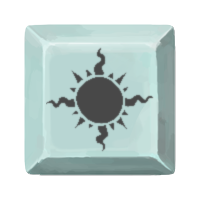
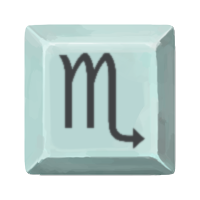
added spider's claw

Changed region(s): [[0.21, 0.24, 0.78, 0.75]]

diff --git a/src/main/java/theGamblignant/cards/SpiderClaw.java b/src/main/java/theGamblignant/cards/SpiderClaw.java
@@ -1,0 +1,68 @@
+package theGamblignant.cards;
+
+import com.megacrit.cardcrawl.actions.AbstractGameAction;
+import com.megacrit.cardcrawl.actions.common.DamageAction;
+import com.megacrit.cardcrawl.cards.DamageInfo;
+import com.megacrit.cardcrawl.characters.AbstractPlayer;
+import com.megacrit.cardcrawl.dungeons.AbstractDungeon;
+import com.megacrit.cardcrawl.monsters.AbstractMonster;
+import theGamblignant.VriskaMod;
+import theGamblignant.characters.TheGamblignant;
+
+import static theGamblignant.VriskaMod.makeCardPath;
+
+public class SpiderClaw extends AbstractVriskaCard {
+
+        // TEXT DECLARATION
+
+        public static final String ID = VriskaMod.makeID(SpiderClaw.class.getSimpleName());
+        public static final String IMG = makeCardPath("Attack.png");
+
+
+        // /TEXT DECLARATION/
+
+
+        // STAT DECLARATION
+
+        private static final CardRarity RARITY = CardRarity.COMMON;
+        private static final CardTarget TARGET = CardTarget.ENEMY;
+        private static final CardType TYPE = CardType.ATTACK;
+        public static final CardColor COLOR = TheGamblignant.Enums.COLOR_COBALT;
+
+        private static final int COST = 1;
+        private static final int UPGRADED_COST = 1;
+
+        private int TIMES = 4;
+        private final int UPGRADE_TIMES = 6;
+
+        // /STAT DECLARATION/
+
+
+        public SpiderClaw() {
+            super(ID, IMG, COST, TYPE, COLOR, RARITY, TARGET);
+            magicNumber = TIMES;
+        }
+
+
+        // Actions the card should do.
+        @Override
+        public void use(AbstractPlayer p, AbstractMonster m) {
+            int times = roll(p,magicNumber);
+            for (int i = 0; i < times; i++) {
+                AbstractDungeon.actionManager.addToBottom(
+                new DamageAction(m, new DamageInfo(p, roll(p,4), damageTypeForTurn), AbstractGameAction.AttackEffect.BLUNT_LIGHT));
+            }
+        }
+
+
+        // Upgraded stats.
+        @Override
+        public void upgrade() {
+            if (!upgraded) {
+                upgradeName();
+                TIMES = UPGRADE_TIMES;
+                upgradeBaseCost(UPGRADED_COST);
+                initializeDescription();
+            }
+        }
+}

diff --git a/src/main/java/theGamblignant/cards/CriticalStrike.java b/src/main/java/theGamblignant/cards/CriticalStrike.java
@@ -33,7 +33,7 @@ public class CriticalStrike extends AbstractVriskaCard {
     private static final CardType TYPE = CardType.ATTACK;       //
     public static final CardColor COLOR = TheGamblignant.Enums.COLOR_COBALT;
 
-    private static final int COST = 2;
+    private static final int COST = 1;
 
 
 
@@ -43,7 +43,7 @@ public class CriticalStrike extends AbstractVriskaCard {
     public CriticalStrike() {
         super(ID, IMG, COST, TYPE, COLOR, RARITY, TARGET);
 
-        this.baseMagicNumber = 20;
+        this.baseMagicNumber = 2;
         this.magicNumber = this.baseMagicNumber;
         this.tags.add(CardTags.STARTER_STRIKE);
     }
@@ -53,7 +53,7 @@ public class CriticalStrike extends AbstractVriskaCard {
     @Override
     public void use(AbstractPlayer p, AbstractMonster m) {
         AbstractDungeon.actionManager.addToBottom(
-                new DamageAction(m, new DamageInfo(p, roll(p,magicNumber), damageTypeForTurn), AbstractGameAction.AttackEffect.SLASH_HORIZONTAL));
+                new DamageAction(m, new DamageInfo(p, roll(p,8)*magicNumber, damageTypeForTurn), AbstractGameAction.AttackEffect.SLASH_HORIZONTAL));
     }
 
     // Upgraded stats.
@@ -62,7 +62,7 @@ public class CriticalStrike extends AbstractVriskaCard {
         if (!upgraded) {
             upgradeName();
             this.rawDescription = UPGRADE_DESCRIPTION;
-            this.upgradeMagicNumber(10);
+            this.upgradeMagicNumber(1);
             initializeDescription();
         }
     }

diff --git a/src/main/java/theGamblignant/cards/AbstractVriskaCard.java b/src/main/java/theGamblignant/cards/AbstractVriskaCard.java
@@ -14,14 +14,6 @@ import static com.megacrit.cardcrawl.core.CardCrawlGame.languagePack;
 
 public abstract class AbstractVriskaCard extends CustomCard {
 
-    // Custom Abstract Cards can be a bit confusing. While this is a simple base for simply adding a second magic number,
-    // if you're new to modding I suggest you skip this file until you know what unique things that aren't provided
-    // by default, that you need in your own cards.
-
-    // In this example, we use a custom Abstract Card in order to define a new magic number. From here on out, we can
-    // simply use that in our cards, so long as we put "extends AbstractDynamicCard" instead of "extends CustomCard" at the start.
-    // In simple terms, it's for things that we don't want to define again and again in every single card we make.
-
     public static final Logger logger = LogManager.getLogger(VriskaMod.class.getName()); //this is for testing purposes, you can remove this eventually
 
     public AbstractVriskaCard(final String id,
@@ -79,6 +71,7 @@ public abstract class AbstractVriskaCard extends CustomCard {
         else if (max <= min) {result = max;} //if your min is greater or equal to your max, return the max
         else {result = AbstractDungeon.cardRandomRng.random(min, max);} //do the fricken roll
 
+        logger.info("rolled a "+result);
         return result;
     }
 }

diff --git a/src/main/java/theGamblignant/cards/Defend_Cobalt.java b/src/main/java/theGamblignant/cards/Defend_Cobalt.java
@@ -16,13 +16,6 @@ import static theGamblignant.VriskaMod.makeCardPath;
 
 public class Defend_Cobalt extends AbstractVriskaCard {
 
-    /*
-     * Wiki-page: https://github.com/daviscook477/BaseMod/wiki/Custom-Cards
-     *
-     * Defend Gain 5 (8) block.
-     */
-
-
     // TEXT DECLARATION
 
     public static final String ID = VriskaMod.makeID(Defend_Cobalt.class.getSimpleName());
@@ -41,8 +34,6 @@ public class Defend_Cobalt extends AbstractVriskaCard {
 
     private static final int COST = 1;
     private static final int BLOCK = 5;
-    private static final int UPGRADE_PLUS_BLOCK = 3;
-
 
     // /STAT DECLARATION/
 
